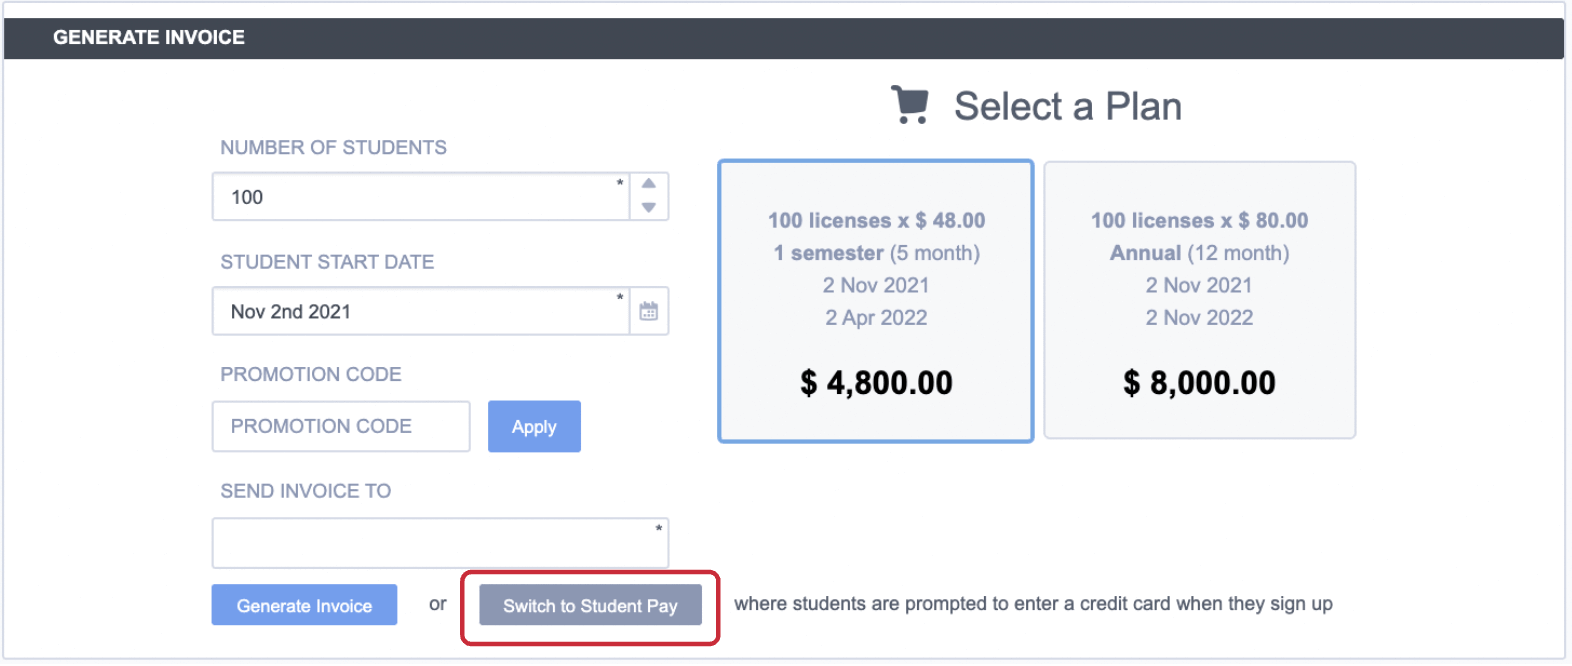
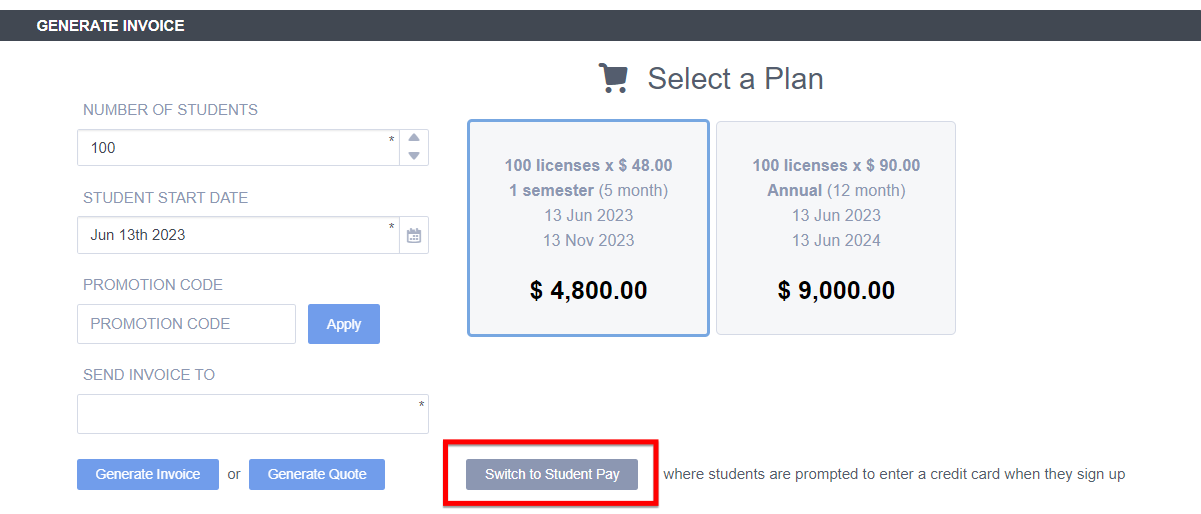
Quotebtn (#233)

diff --git a/source/instructors/admin/orgbilling.rst b/source/instructors/admin/orgbilling.rst
@@ -25,7 +25,7 @@ Access Billing Page
 
 Institution Pay
 ---------------
-To generate an invoice, enter your country and follow the steps below:
+To generate an invoice or a quote, enter your country and follow the steps below:
 
   .. image:: /img/manage_organization/directions.png
      :alt: Directions Billing
@@ -44,7 +44,7 @@ To generate an invoice, enter your country and follow the steps below:
 
 4. The plans available will be shown (semester or annual), select the plan you require and if you require the invoice to be sent to someone else, you can change the recipient.
 
-5. When you are ready, click the 'Generate Invoice' button and the invoice will be generated and sent to the email address.
+5. When you are ready, click the 'Generate Invoice' button or 'Generate Quote' button as per your requirement, and the invoice or quote will be generated and sent to the email address.
 
   .. Note:: You can access your invoice from the email, or you can click **View Invoice** from the **Invoice History** section. Pay your invoice at this link.
 
